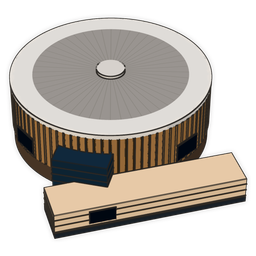
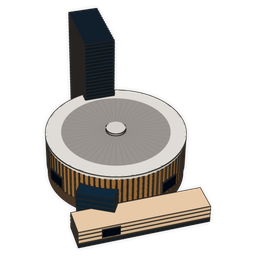
Overhaul pilot: blind-ID round 1 (7/11), MSG Two Penn Plaza, attempt 3 for MSG/Q2/L&N/Rupp, Daytona attempt 5
Claude-Session: https://claude.ai/code/session_01C5PnapxgJNtXNmtS3P7or9

diff --git a/scripts/stadiums/art2/venues.js b/scripts/stadiums/art2/venues.js
@@ -468,6 +468,16 @@ function msg({ fp, mat, info }) {
   const shop = K.box(118.4, 4, 26.4, '#3b3f44', mat, { kind: 'glass' }); pod.add(shop)
   const scr = K.box(16, 9, 0.6, '#181c22', mat, { kind: 'glass' }); scr.position.set(30, 7, -13.4); pod.add(scr)
   g.add(K.place(pod, [c[0] + west[0] * (R + 14), c[1] + west[1] * (R + 14)], 0, AVE))
+  // Two Penn Plaza (overhaul): the 29-storey dark glass slab on the Seventh
+  // Avenue side of the complex, about 107 m tall on a ~60 x 28 m footprint along
+  // the avenue. It rises over the drum in nearly every view of the Garden and is
+  // the cue the pilot's blind-ID test missed without it.
+  const east = K.bearingVec(AVE + 90)
+  const tw = new THREE.Group()
+  tw.add(K.box(28, 107, 60, '#2f353c', mat, { kind: 'glass' }))
+  for (let k = 1; k < 29; k++) { const b = K.box(28.3, 0.5, 60.3, '#5b636c', mat, { kind: 'metal', bevel: 0 }); b.position.y = k * 3.7; tw.add(b) }
+  for (const sx of [-1, 1]) for (let k = -7; k <= 7; k++) { const fin = K.box(0.5, 107, 0.6, '#6d757e', mat, { kind: 'metal', bevel: 0 }); fin.position.set(sx * 14.1, 0, k * 4); tw.add(fin) }
+  g.add(K.place(tw, [c[0] + east[0] * (R + 20), c[1] + east[1] * (R + 20)], 0, AVE))
   // Glazed entrance block between the podium and the drum (north-west).
   const nw = K.bearingVec(AVE - 60)
   const ent = new THREE.Group()

diff --git a/docs/decisions-log.md b/docs/decisions-log.md
@@ -30,3 +30,7 @@ One line per decision made without Josh, with the reason. Newest last.
 | 2026-11-08 | Fallback edges also take material boundaries from the flat-shaded color render | Normal and depth edges miss planar boundaries (track vs infield, pitch markings, water), so the generator invented them. Seat-texture speckle is filtered (edge chains under 40 px dropped). |
 | 2026-11-08 | Generate the no-base image only; the base variant is that image on one programmatic board | In the pilot no seed drew a base: "base" and "no base" came out identical for all 12 venues. A composited board is identical across the set and halves GPU time. |
 | 2026-11-08 | Text cleanup: EasyOCR detector plus SDXL inpainting on every output; known lettering blanked in references | The pilot had readable or gibberish lettering in most venues (Michigan's block M, SoFi roof script, Daytona facade). Negative prompts alone did not stop it. |
+| 2026-11-08 | Text cleanup pass on picked images: boxes marked by eye in QA plus EasyOCR at lower thresholds, inpainted with SDXL; alpha and shadow kept | The generator's detector (threshold 0.6) missed end-zone and sign lettering on L&N, Lambeau, Fenway, Michigan, Bristol and MSG. After the pass the blind tester found no readable text in any of the 11 venues. |
+| 2026-11-08 | Fallback venues use the flat-color render of their own model as the IP-Adapter style reference | The reference photos carried crowds, cars and signage into the art (Daytona's infield became crowd and logos). The color render is our own work, so there is no license question, and it carries the sampled venue colors. Fixed Arthur Ashe. |
+| 2026-11-08 | MSG model gains Two Penn Plaza | Blind ID failed on MSG in round 2 ("unidentified round arena"). The tower over the drum is the Garden's most recognizable cue. |
+| 2026-11-08 | Daytona: image-to-image from the color render | Txt2img swapped the infield and track colors (round 3). Starting from the render keeps the layout. |
